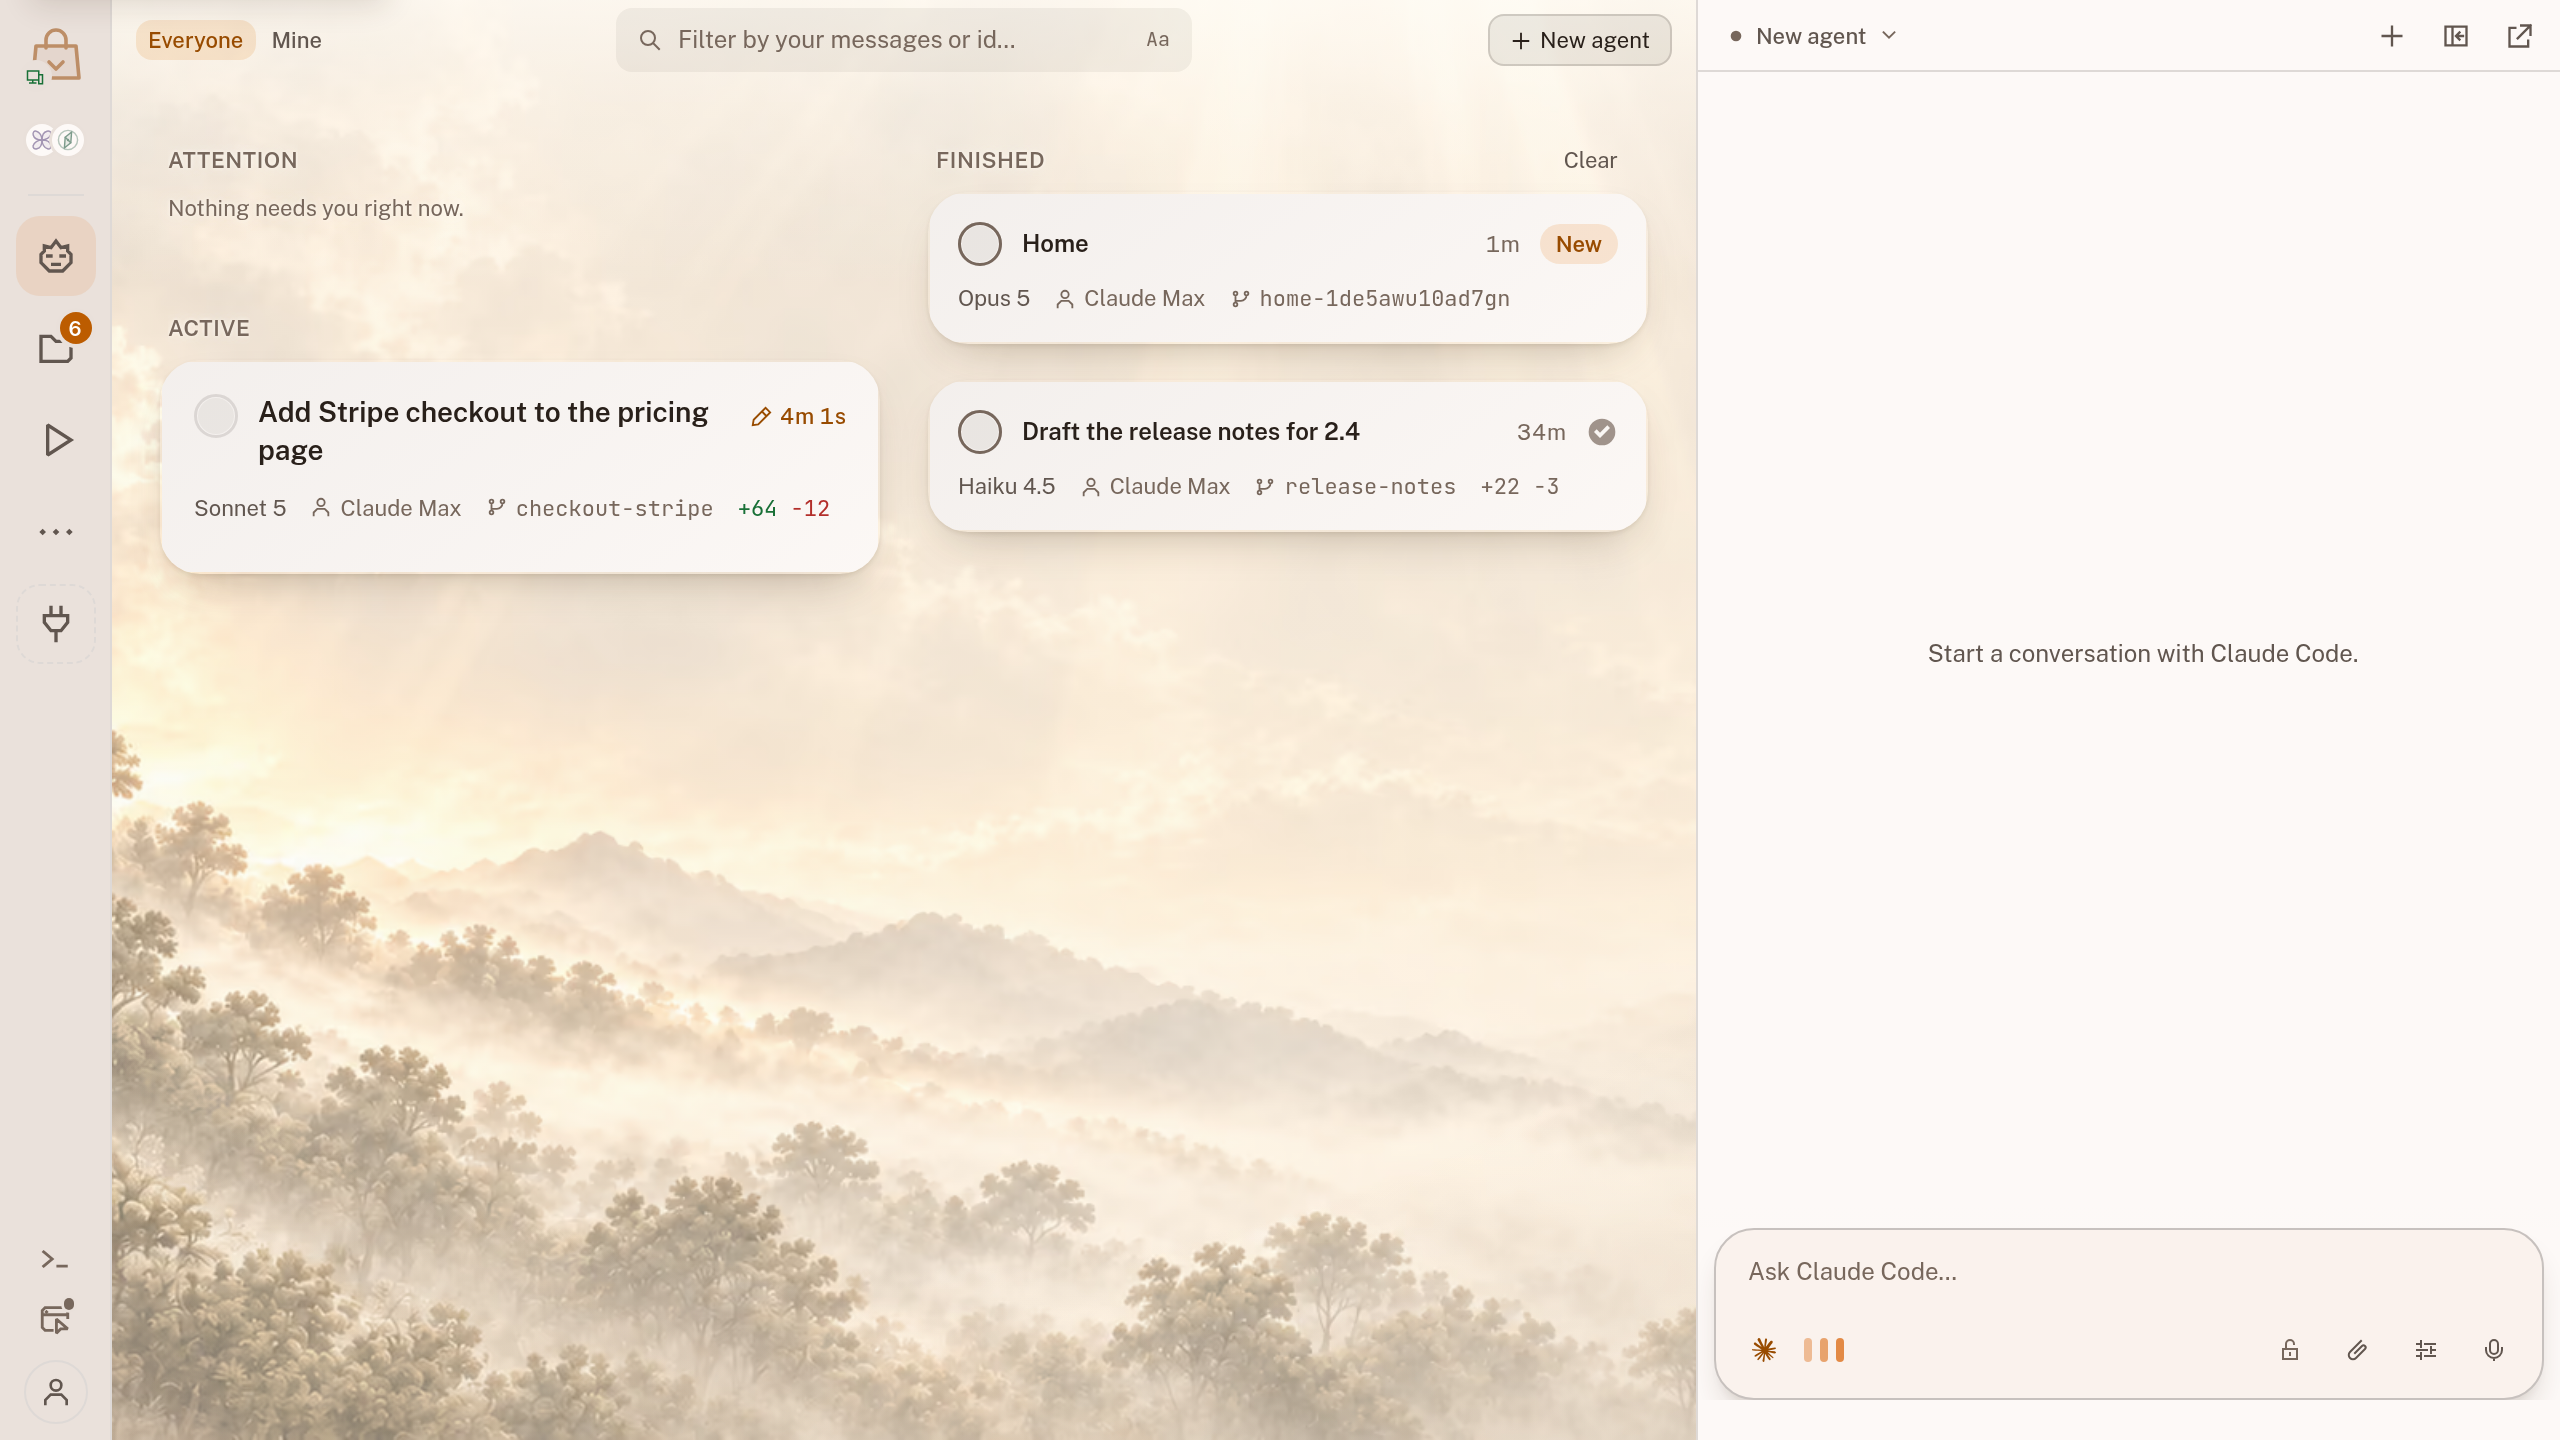
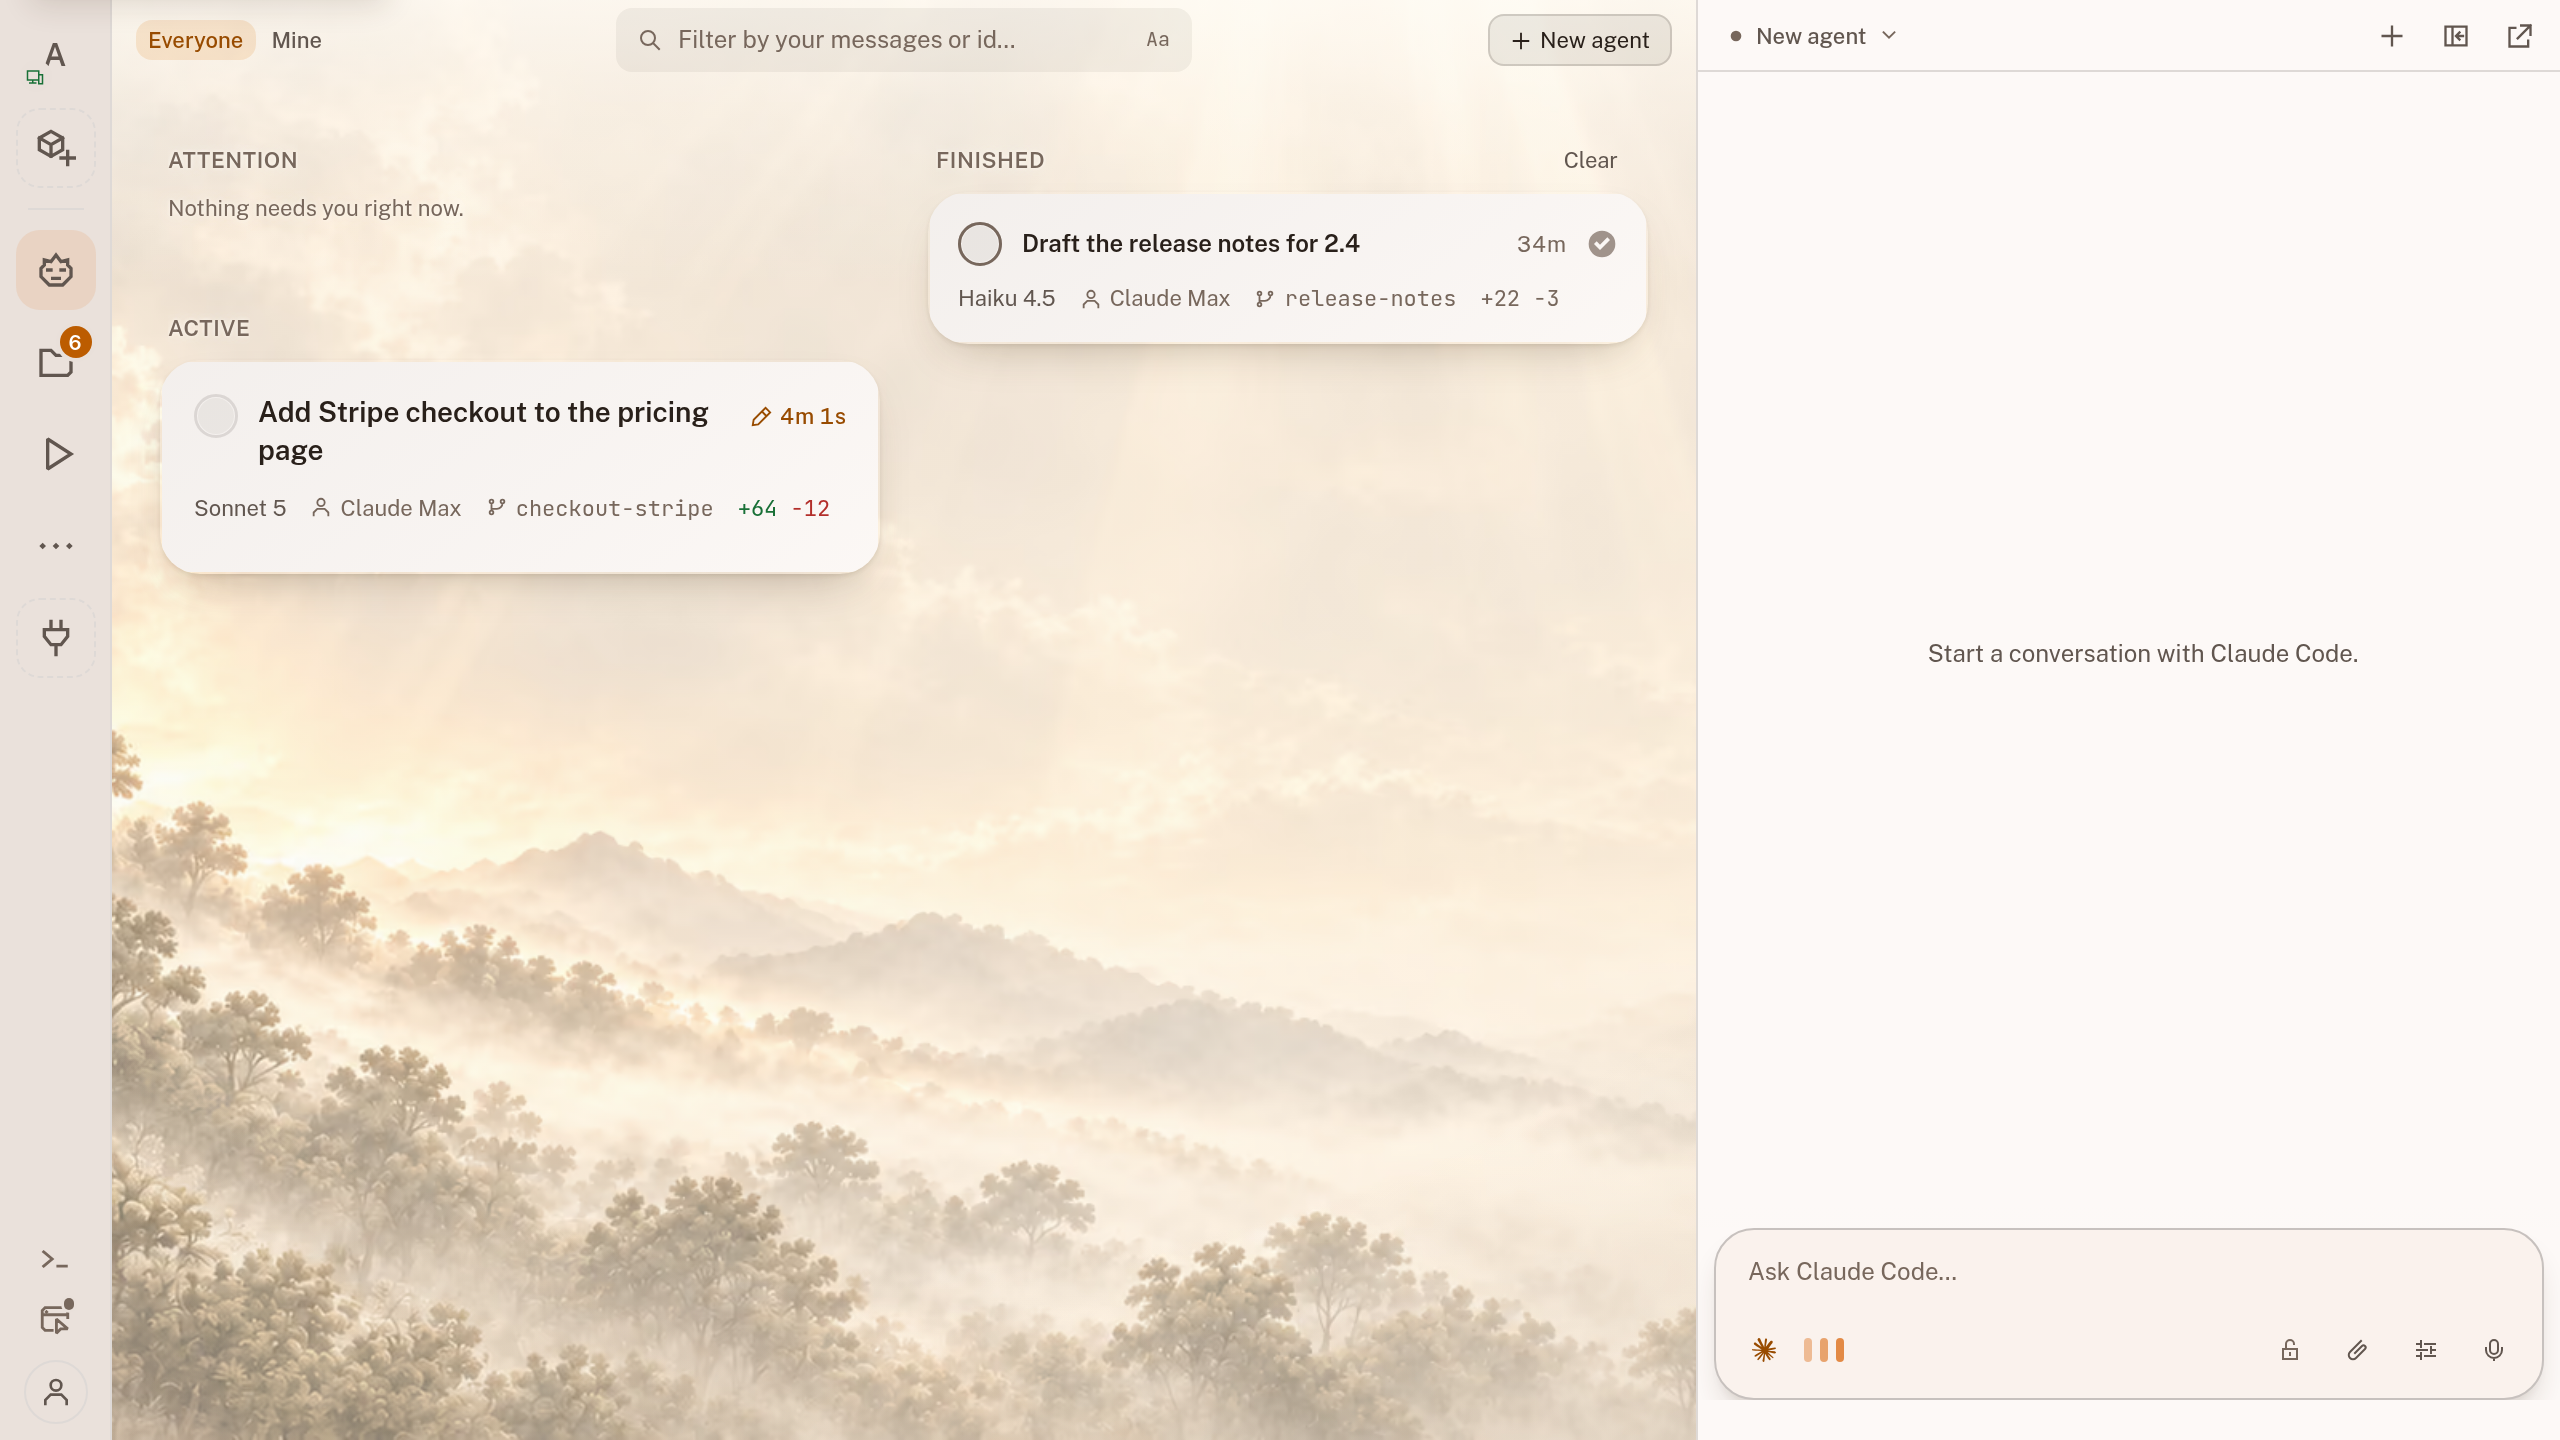
refactor(demo): remove homeRecording from HERO mode
Conversation-Id: cod-zb8r

diff --git a/_site/demo/src/mode.ts b/_site/demo/src/mode.ts
@@ -129,20 +129,18 @@ const HOME: DemoMode = {
     homeRecording: true,
 };
 
-// What the landing page's hero runs live (src/embed.ts): it opens on the home view the hero's poster was taken of, and a
-// visitor who steps inside a sandbox finds a calm board rather than an empty one: one agent at work on the checkout, one
-// that finished, nothing asking for them. The showcase's seven cards in every state were a wall to someone who had only
-// just arrived (the owner's, 2026-10-28). No chats open, so the first frame matches the poster.
+// What the landing page's hero runs live (src/embed.ts): the fleet board, kept as calm as a board can be. One agent at
+// work on the checkout and one that finished, nothing asking for the visitor, no home conversation card, no chats open.
+// The showcase's seven cards in every state were a wall to someone who had only just arrived (the owner's, 2026-10-28).
 const HERO: DemoMode = {
     id: `hero`,
     label: `Hero`,
-    note: `The home view, with a calm board behind it: what the landing page runs live.`,
+    note: `A calm board, one agent at work and one finished: what the landing page runs live.`,
     agents: [FEATURED_AGENT_ID, RELEASE_NOTES_AGENT_ID],
     extensions: [],
     teammate: false,
     openChats: false,
     quiet: true,
-    homeRecording: true,
 };
 
 // Before the first sandbox, which every other mode is past: Home's first run, what a new account opens on. Signed in it
